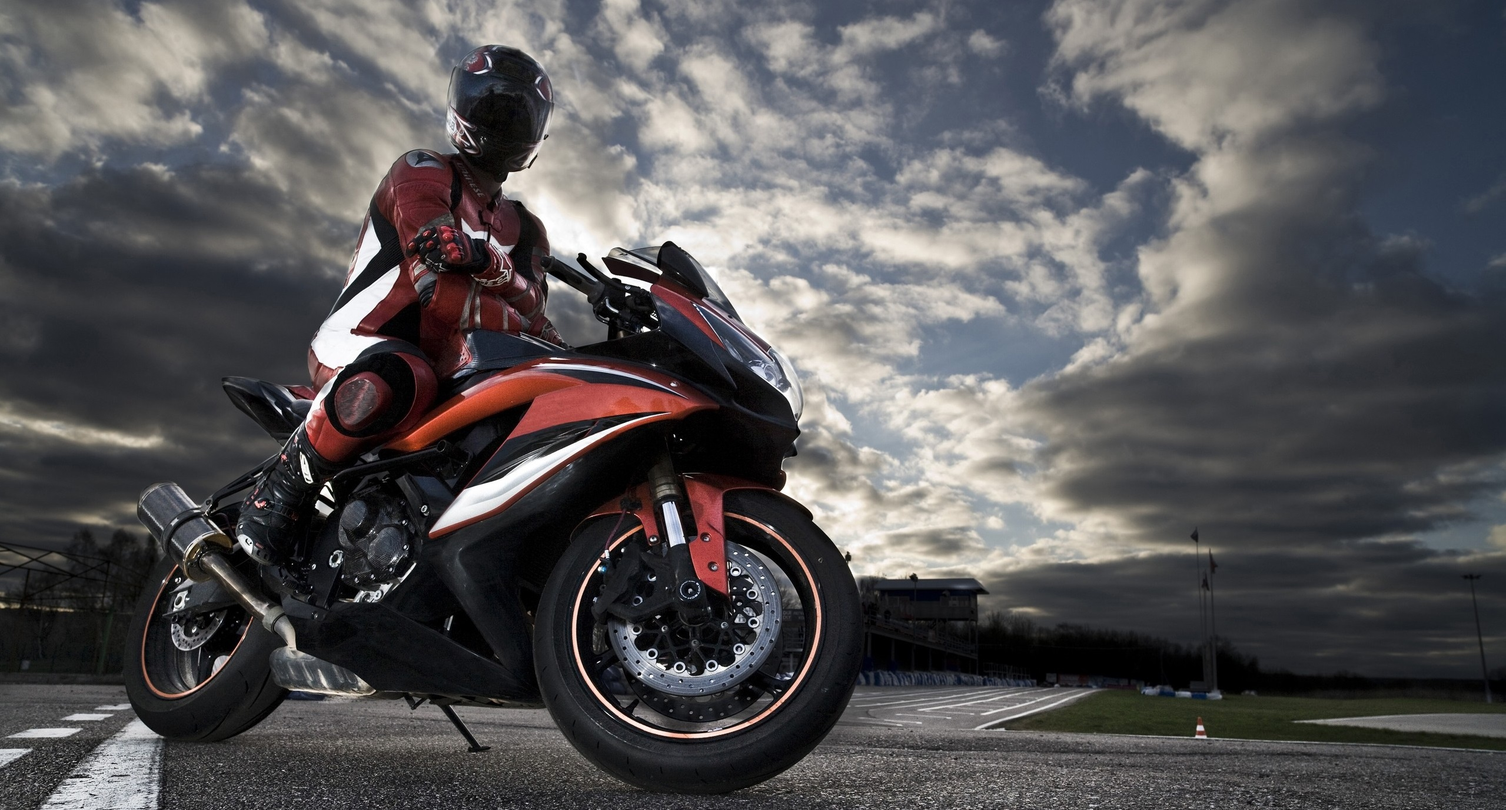
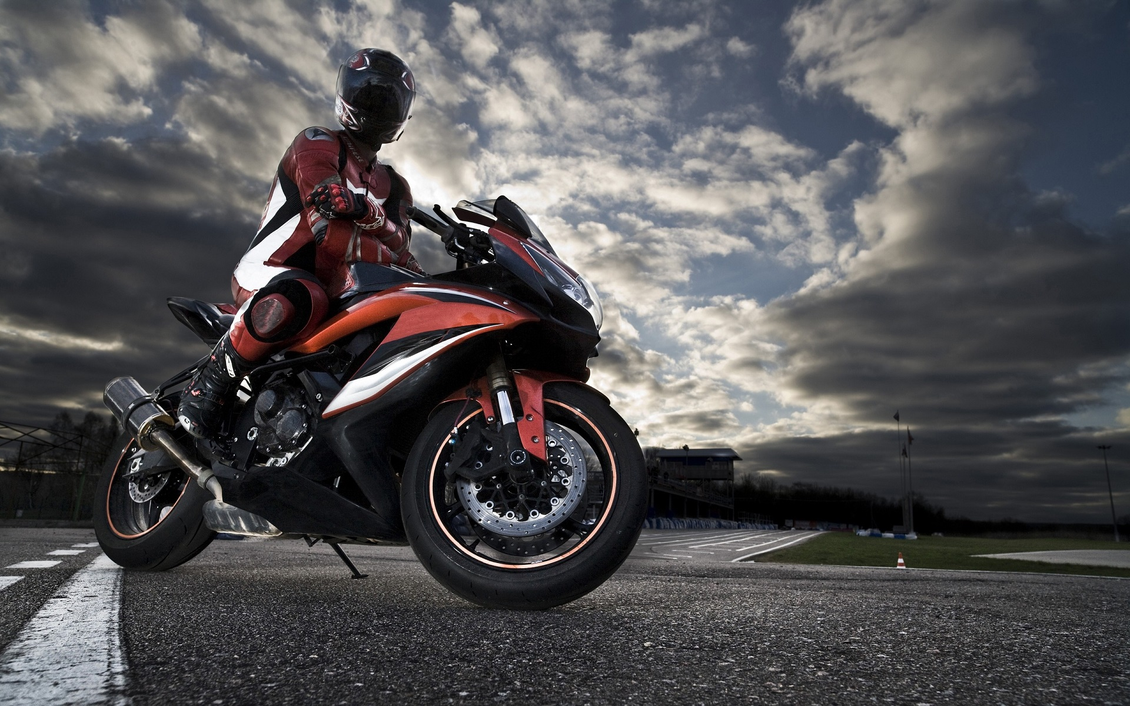
commit1

diff --git a/index.html b/index.html
@@ -49,20 +49,19 @@
 		</div>
 
         <!-- Homepage image -->
-        <div class="mane-image">
+        <div class="main-image" align="center">
         <br>
         <br>
-
-			<div style="position: relative; top: 0; left: 0;"> 
-    		        	<p align="center">
-    		
-    			<img src="img/main-image.jpg" alt="Main-image" width="85%" height="60%">
-    			<div style="position: absolute; top: 35%; left: 55%;"> 
-    			<h1 style="color:#B22222" align="center">Самые выгодные<br>предложения<br>по странам СНГ</h1>
-    			</div> 
-    			</p>
-
-    		</div> 
+ 			<table  width="1200" height="500" background="img/main-image.jpg">
+ 			<tr>
+ 			<td>
+ 					<h1 style="color:#C70909" align="center" valign="middle">Лучший магазин<br>мотоциклов</h1>
+ 				</td>
+ 				<td>
+ 					<h1 style="color:#C70909" align="center" valign="middle">Самые выгодные<br>цены по России</h1>
+ 				</td>
+ 			</tr>
+ 			</table>
         </div>
         <!-- End Homepage image -->
 
